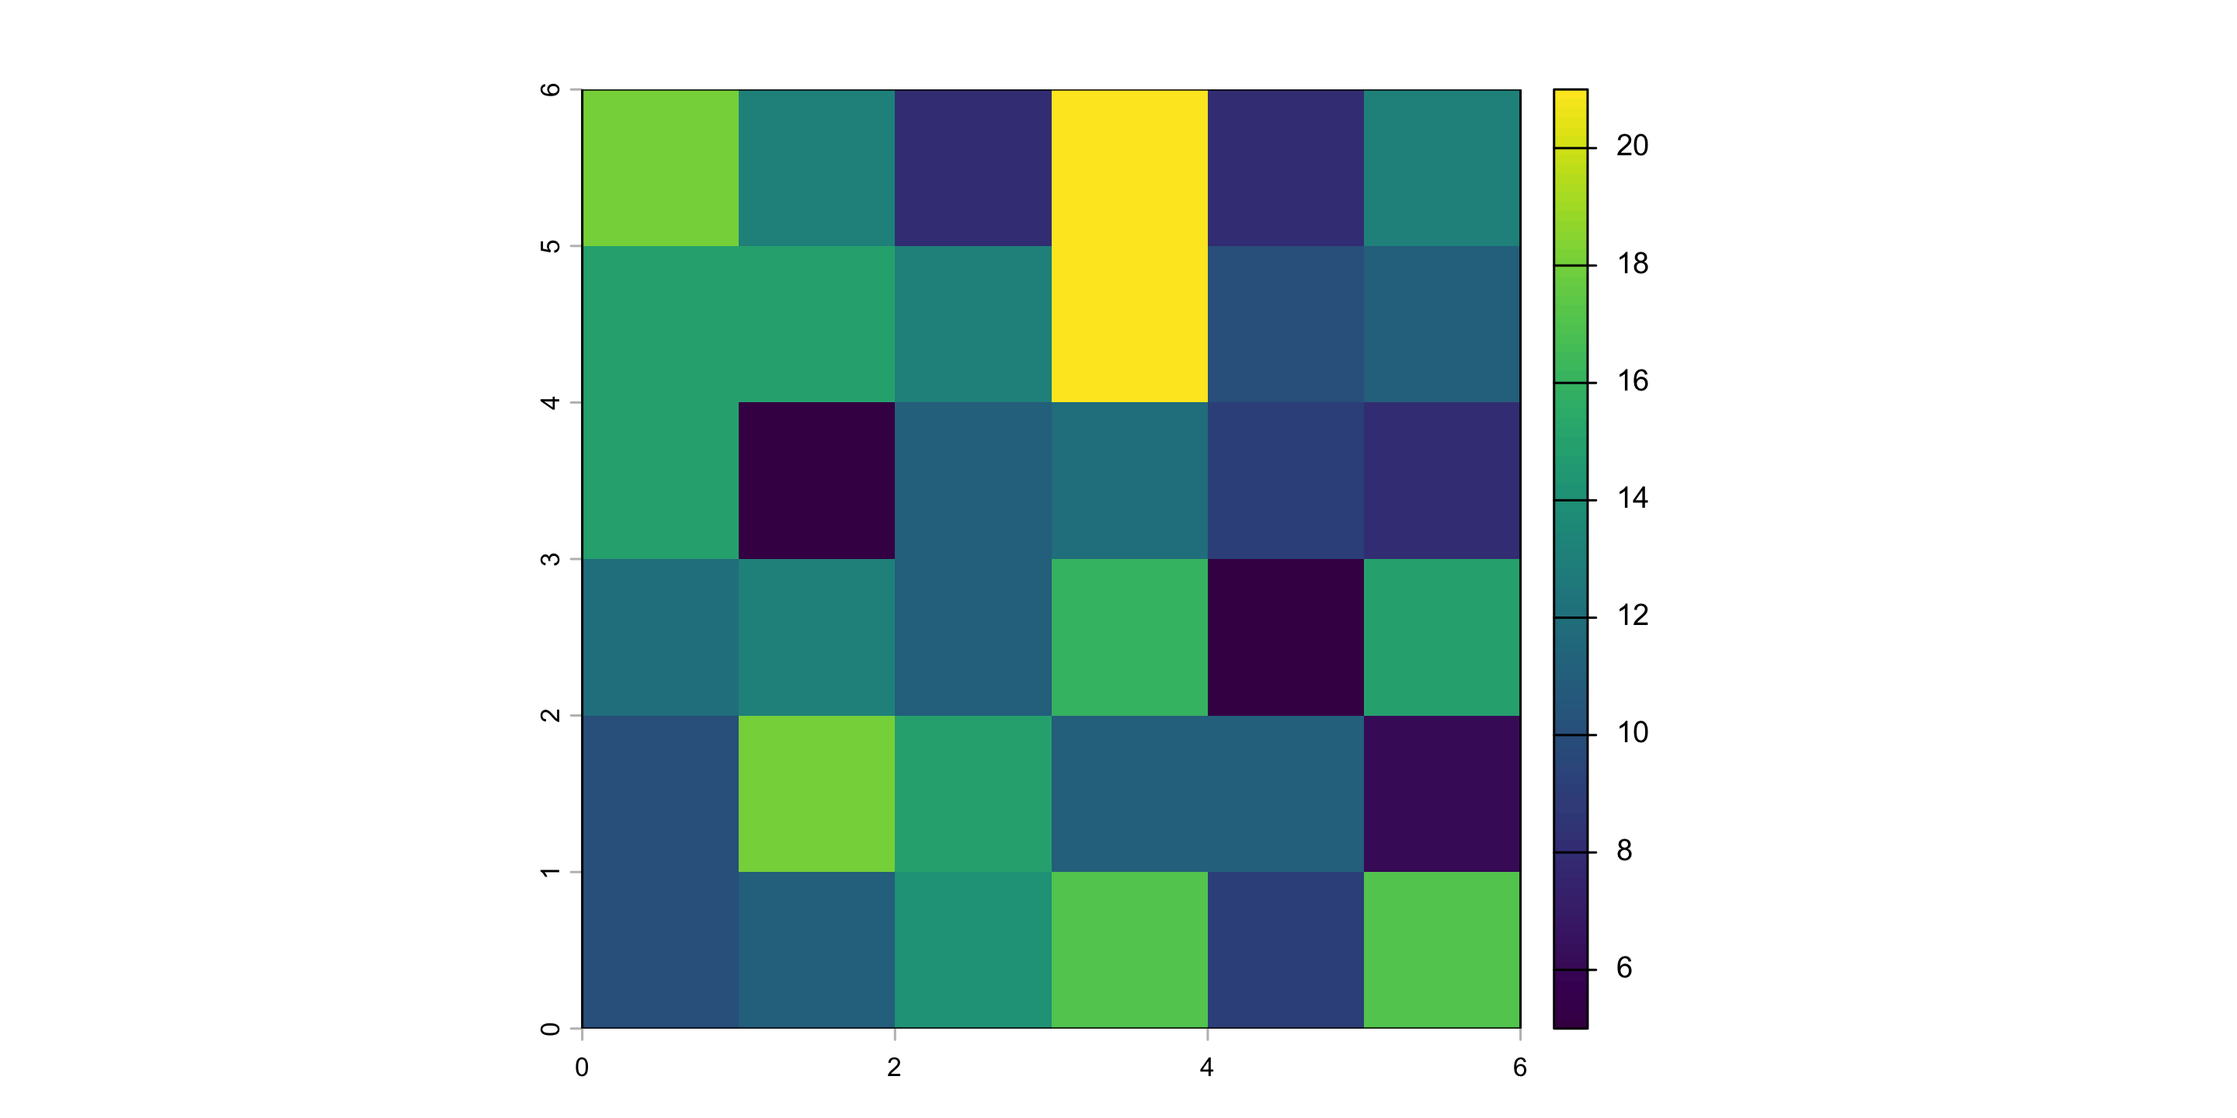
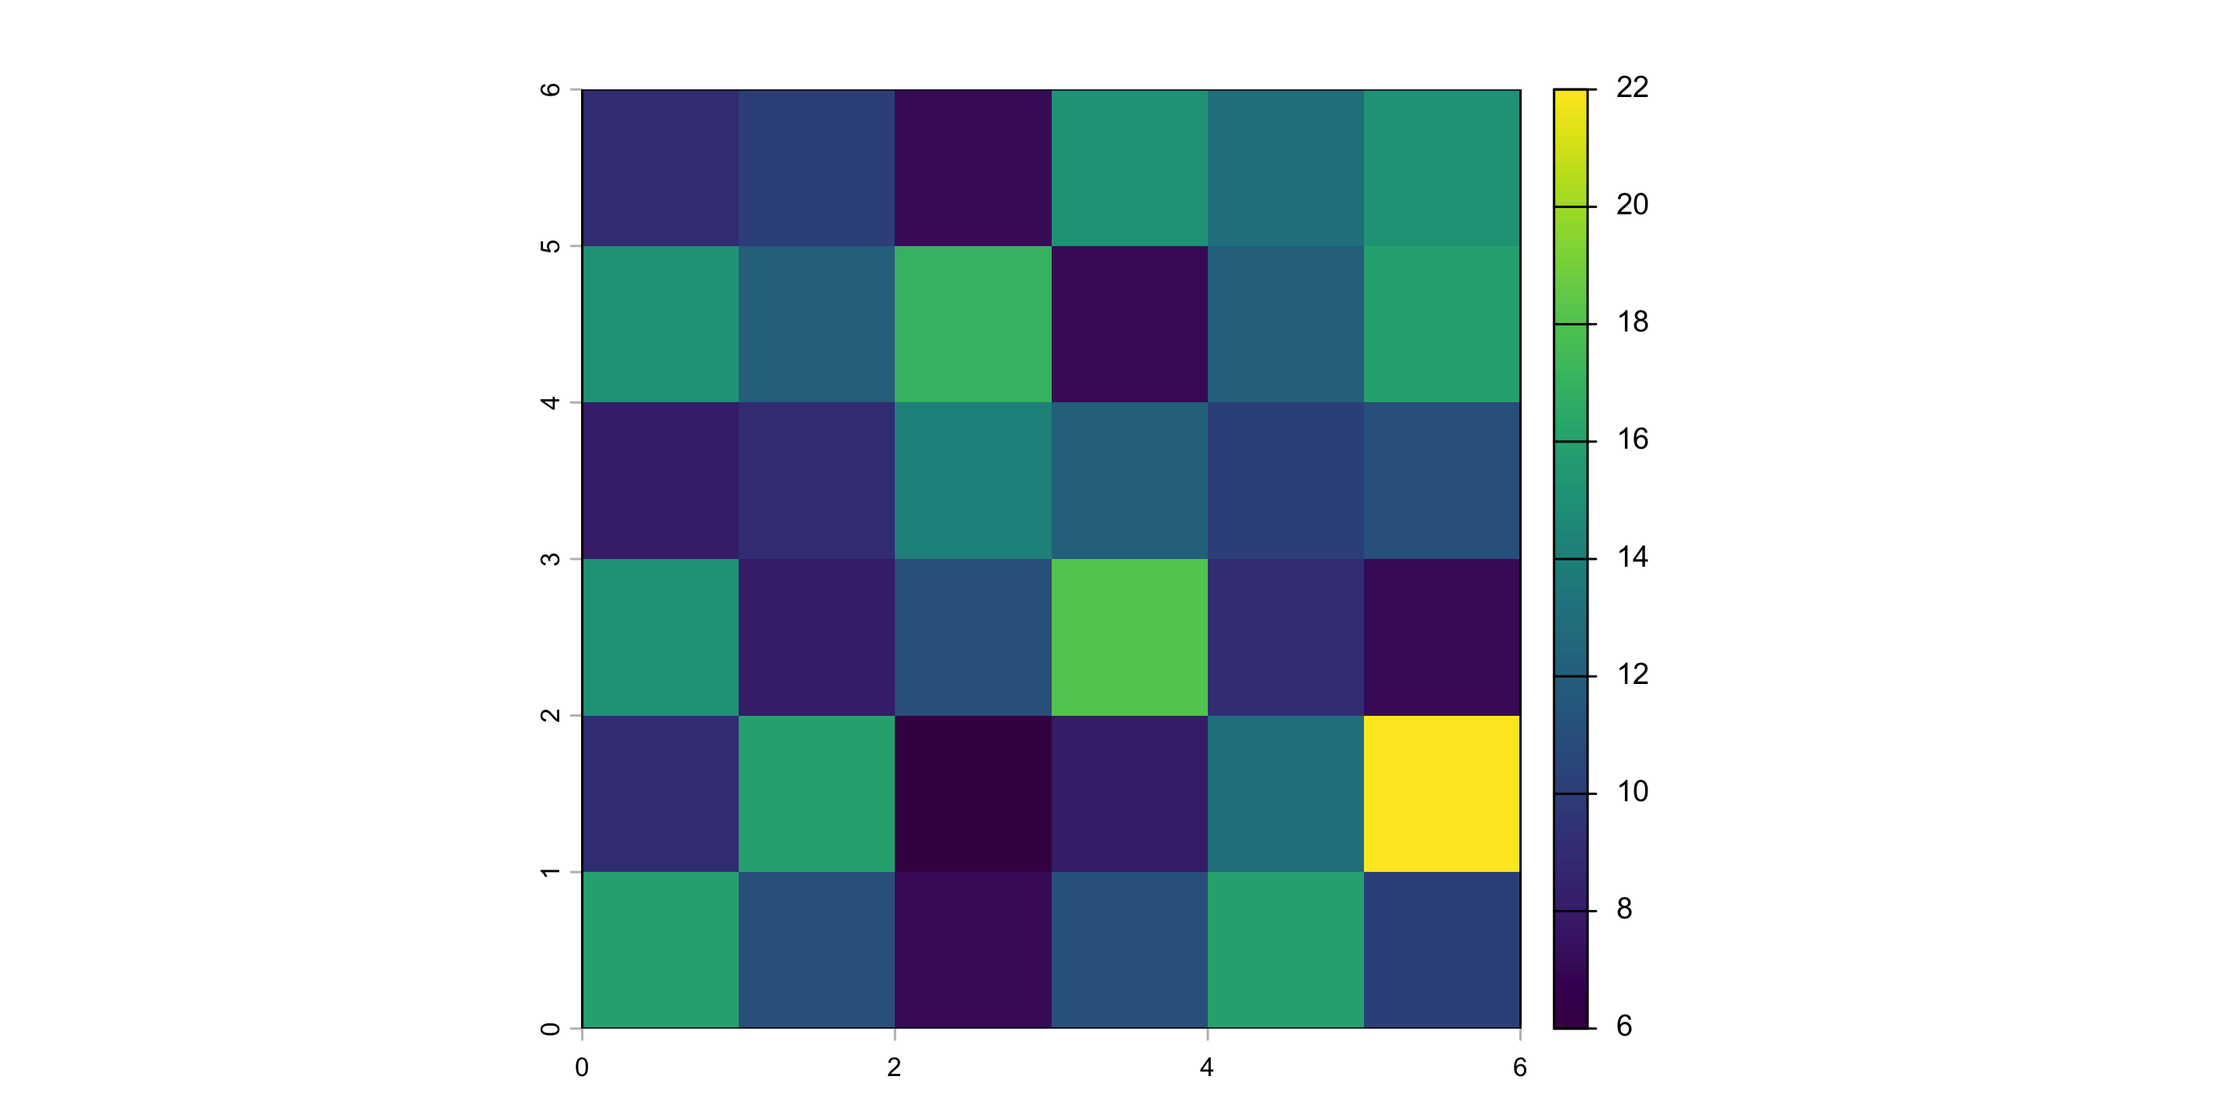
built for latest content

diff --git a/docs/narrative.html b/docs/narrative.html
@@ -144,8 +144,8 @@ window.Quarto = {
 </div>
 </div>
 <p>Rasters are representations of continuous, or semi-continuous, data. You can envision a raster just like an image. <mark>When me make a <code>leaflet()</code> map and how the tiles, each pixel is colored a particular value representing elevation, temperature, precipitation, habitat type, or whatever.</mark> This is exactly the same for rasters. The <em>key point</em> here is that each pixel represents some defined region on the earth and as such the raster itself is georeferenced. It has a coordinate reference system (CRS), boundaries, etc.</p>
-<section id="making-rasters-de-novo" class="level2">
-<h2 class="anchored" data-anchor-id="making-rasters-de-novo">Making Rasters <em>de novo</em></h2>
+<section id="making-rasters-de-novo" class="level2 application">
+<h2 class="application anchored" data-anchor-id="making-rasters-de-novo">Making Rasters <em>de novo</em></h2>
 <p>A raster is simply a matrix with rows and columns and each element has a value associated with it. You can create a raster <em>de novo</em> by making a matrix of data and filling it with values, then turning it into a raster.</p>
 <p>Here I make a raster with random numbers selected from the Poisson Distribution (fishy, I know) using the <code>rpois()</code> function. I then turn it into a matrix with 7 rows (and 7 columns).</p>
 <div class="cell">
@@ -154,20 +154,20 @@ window.Quarto = {
 <span id="cb3-3"><a href="#cb3-3" aria-hidden="true" tabindex="-1"></a>x</span></code></pre></div><button title="Copy to Clipboard" class="code-copy-button"><i class="bi"></i></button></div>
 <div class="cell-output cell-output-stdout">
 <pre><code>     [,1] [,2] [,3] [,4] [,5] [,6] [,7]
-[1,]   14   13   13   12    9   15   10
-[2,]   11    9   13   10    7   10   12
-[3,]   17   15   16   10   12   12   11
-[4,]   13   13   16   11    9   13   17
-[5,]   11   12   10    6   13   15   11
-[6,]    8   11   21   10    7   11   10
-[7,]   12   17   13   12   22   14    6</code></pre>
+[1,]   13   13   13   14   15    8   13
+[2,]   12   11   11   12   13   13   12
+[3,]   18   13   15   10   21    5   11
+[4,]   14   10    7   12   12   19   16
+[5,]    8    9   10   21   15   11   13
+[6,]   11   13   15   10   13   13   18
+[7,]   11    7    7    8   14   12   11</code></pre>
 </div>
 </div>
 <p>While we haven’t used matrices much thus far, it is a lot like a <code>data.frame</code> with respect to getting and setting values using numerical indices. For example, the value of the 3rd row and 5th column is:</p>
 <div class="cell">
 <div class="code-copy-outer-scaffold"><div class="sourceCode cell-code" id="cb5"><pre class="sourceCode r code-with-copy"><code class="sourceCode r"><span id="cb5-1"><a href="#cb5-1" aria-hidden="true" tabindex="-1"></a>x[<span class="dv">3</span>,<span class="dv">5</span>]</span></code></pre></div><button title="Copy to Clipboard" class="code-copy-button"><i class="bi"></i></button></div>
 <div class="cell-output cell-output-stdout">
-<pre><code>[1] 12</code></pre>
+<pre><code>[1] 21</code></pre>
 </div>
 </div>
 <p>To convert this set of data, as a matrix, into a geospatially referenced <code>SpatRaster</code> object we pass it to the <code>rast()</code> function:</p>
@@ -182,8 +182,8 @@ extent      : 0, 7, 0, 7  (xmin, xmax, ymin, ymax)
 coord. ref. : 
 source(s)   : memory
 name        : lyr.1
-min value   :     6
-max value   :    22</code></pre>
+min value   :     5
+max value   :    21</code></pre>
 </div>
 </div>
 <p>Notice that when I plot it out, it does not show the data, but a summary of the data along with some key data about the contents, including:<br>
@@ -191,8 +191,8 @@ max value   :    22</code></pre>
 - The extent (the bounding box) and again since we do not have a CRS defined it just goes from <span class="math inline">\(0\)</span> to <span class="math inline">\(1\)</span>. - The <code>coord. ref.</code> (missing) - The source, which is <code>memory</code> if the values are held in R or the name of the file the values are read from.</p>
 <p>If these data represent something on the planet, we can assign the dimensions and <code>CRS</code> values to it and use it in our normal day-to-day operations.</p>
 </section>
-<section id="loading-rasters-from-files-or-urls" class="level2">
-<h2 class="anchored" data-anchor-id="loading-rasters-from-files-or-urls">Loading Rasters from Files or URLs</h2>
+<section id="loading-rasters-from-files-or-urls" class="level2 application">
+<h2 class="application anchored" data-anchor-id="loading-rasters-from-files-or-urls">Loading Rasters from Files or URLs</h2>
 <p>We can also grab a raster object from the filesystem or from some online repository by passing the link to the <code>rast()</code> function. Here is the elevation, in meters, of the region in which Mexico is found. To load it in, pass the url.</p>
 <div class="cell">
 <div class="code-copy-outer-scaffold"><div class="sourceCode cell-code" id="cb9"><pre class="sourceCode r code-with-copy"><code class="sourceCode r"><span id="cb9-1"><a href="#cb9-1" aria-hidden="true" tabindex="-1"></a>url <span class="ot">&lt;-</span> <span class="st">"https://dyerlabteaching.github.io/CourseData/Spatial/alt_22.tif"</span></span>
@@ -230,8 +230,8 @@ max value   :   5469</code></pre>
 </div>
 </div>
 </section>
-<section id="cropping" class="level2">
-<h2 class="anchored" data-anchor-id="cropping">Cropping</h2>
+<section id="cropping" class="level2 application">
+<h2 class="application anchored" data-anchor-id="cropping">Cropping</h2>
 <p>One of the first things to do is to crop the data down to represent the size and extent of our study area. If we have over 10 million missing data points (the ocean) and most of Mexico in this raster above but we are only working with sites in Baja California (Norte y Sur), we would do well to excise (or crop) the raster to only include the area we are interested in working with.</p>
 <p>To do this, we need to figure out a bounding box (e.g., the minimum and maximum values of longitude and latitude that enclose our data). Let’s assume we are working with the Beetle Data from the <a href="https://dyerlabteaching.github.io/Spatial-Points/slides.html">Spatial Points Slides</a> and load in the Sex-biased dispersal data set and use those points as a starting estimate of the bounding box.</p>
 <div class="cell">
@@ -330,8 +330,8 @@ Warning
 </div>
 </div>
 </section>
-<section id="masking" class="level2">
-<h2 class="anchored" data-anchor-id="masking">Masking</h2>
+<section id="masking" class="level2 application">
+<h2 class="application anchored" data-anchor-id="masking">Masking</h2>
 <p>There is another way to grab just a portion of the raster—similar to cropping—which is to mask. A mask will not change the size of the raster but just put <code>NA</code> values in the cells that are not in the area of interest. So if we were to just mask above, it would never actually reduce the size of the raster, just add a lot more <code>NA</code> values. However, the setup is the same. The one difference is that <code>terra</code> functions want their vector data as a <code>terra</code> vector object (a <code>SpatVector</code>) rather than an <code>sf</code> object, so we convert the hull with <code>vect()</code><a href="#fn1" class="footnote-ref" id="fnref1" role="doc-noteref"><sup>1</sup></a>.</p>
 <div class="cell">
 <div class="code-copy-outer-scaffold"><div class="sourceCode cell-code" id="cb28"><pre class="sourceCode r code-with-copy"><code class="sourceCode r"><span id="cb28-1"><a href="#cb28-1" aria-hidden="true" tabindex="-1"></a>beetles <span class="sc">|&gt;</span></span>
@@ -367,8 +367,8 @@ max value   :   1875</code></pre>
 </div>
 </div>
 </section>
-<section id="plotting-with-ggplot" class="level2">
-<h2 class="anchored" data-anchor-id="plotting-with-ggplot">Plotting with GGPlot</h2>
+<section id="plotting-with-ggplot" class="level2 application">
+<h2 class="application anchored" data-anchor-id="plotting-with-ggplot">Plotting with GGPlot</h2>
 <p>As you may suspect, our old friend <code>ggplot</code> has some tricks up its sleeve for us. The main thing here is that <code>ggplot</code> requires a <code>data.frame</code> object and a raster is not a <code>data.frame</code> — Unless we turn it into one (hehehe). Remember from the <a href="https://dyerlabteaching.github.io/Data-Containers/narrative.html">lecture on <code>data.frame</code> objects</a> that we can coerce other data containers into a <code>data.frame</code> using the <code>as.data.frame()</code> function. The same works for a raster. If we pass <code>xy=TRUE</code> it takes each cell of the raster (and underlying matrix), makes a row from it, and includes the coordinates of the center of that cell as the <code>x</code> and <code>y</code> columns. By default, cells that are <code>NA</code> (the ocean) are dropped.</p>
 <div class="cell">
 <div class="code-copy-outer-scaffold"><div class="sourceCode cell-code" id="cb31"><pre class="sourceCode r code-with-copy"><code class="sourceCode r"><span id="cb31-1"><a href="#cb31-1" aria-hidden="true" tabindex="-1"></a>alt <span class="sc">|&gt;</span></span>
@@ -594,8 +594,8 @@ max value   :   1875</code></pre>
 </section>
 </section>
 </section>
-<section id="plotting-with-tidyterra" class="level2">
-<h2 class="anchored" data-anchor-id="plotting-with-tidyterra">Plotting with <code>tidyterra</code></h2>
+<section id="plotting-with-tidyterra" class="level2 application">
+<h2 class="application anchored" data-anchor-id="plotting-with-tidyterra">Plotting with <code>tidyterra</code></h2>
 <p>Converting the raster into a <code>data.frame</code> works, and it is worth knowing how to do because it shows exactly what <code>ggplot</code> needs. It is, however, a bit clunky. We had to make a second copy of the data (<code>alt.df</code>), rename the columns by hand, and remember to add <code>coord_equal()</code>. The <code>tidyterra</code> library is a bridge between <code>terra</code> and the <code>tidyverse</code> that takes care of all of this for us.</p>
 <div class="cell">
 <div class="code-copy-outer-scaffold"><div class="sourceCode cell-code" id="cb49"><pre class="sourceCode r code-with-copy"><code class="sourceCode r"><span id="cb49-1"><a href="#cb49-1" aria-hidden="true" tabindex="-1"></a><span class="fu">library</span>( tidyterra )</span></code></pre></div><button title="Copy to Clipboard" class="code-copy-button"><i class="bi"></i></button></div>
@@ -729,8 +729,8 @@ max values  :      2263, 7424.54092</code></pre>
 <p>We will put <code>filter()</code> to work in the <em>Applications</em> section below.</p>
 </section>
 </section>
-<section id="downloading-rasters-with-geodata" class="level2">
-<h2 class="anchored" data-anchor-id="downloading-rasters-with-geodata">Downloading Rasters with <code>geodata</code></h2>
+<section id="downloading-rasters-with-geodata" class="level2 application">
+<h2 class="application anchored" data-anchor-id="downloading-rasters-with-geodata">Downloading Rasters with <code>geodata</code></h2>
 <p>So far, the only raster we have used is the elevation file from the course data site. For real projects, you will usually need some other variable (climate, land cover, soils) for your own study area, and finding, downloading, and unpacking those files by hand from each data provider gets old fast. The <code>geodata</code> library takes care of this for many of the most commonly used <em>global</em> data sets, downloading them straight into <code>SpatRaster</code> (or, for boundaries, <code>SpatVector</code>) objects.</p>
 <div class="cell">
 <div class="code-copy-outer-scaffold"><div class="sourceCode cell-code" id="cb63"><pre class="sourceCode r code-with-copy"><code class="sourceCode r"><span id="cb63-1"><a href="#cb63-1" aria-hidden="true" tabindex="-1"></a><span class="fu">library</span>( geodata )</span></code></pre></div><button title="Copy to Clipboard" class="code-copy-button"><i class="bi"></i></button></div>
@@ -926,8 +926,8 @@ max values  : 28.754168,   20.975, 88.148148, 786.332458,  42.5,  22.4, ...</cod
 <p>Most of the peninsula gets less than 250mm of rain a year. The wettest parts are the Sierra de la Laguna at the southern tip and the mountains on the mainland side of the Gulf.</p>
 </section>
 </section>
-<section id="identifying-points" class="level2">
-<h2 class="anchored" data-anchor-id="identifying-points">Identifying Points</h2>
+<section id="identifying-points" class="level2 application">
+<h2 class="application anchored" data-anchor-id="identifying-points">Identifying Points</h2>
 <p>You can get some information from a raster plot interactively by using the <code>click</code> function. This <strong>must</strong> be done with an active raster plot. After that, you use the <code>click()</code> function to grab what you need. Your mouse will turn from an arrow into a cross hair and you can position it where you like and get information such as the coordinates (spatial) of the point and the value of the raster pixel at that location.</p>
 <p>The <code>n=</code> argument sets how many points to collect (it defaults to 10); you can stop early by pressing <code>ESC</code>. If you set <code>id=TRUE</code> it will plot the number of the point onto the map so you can see where you had clicked. Since this is interactive, you will not see the process when you execute the code below, but it will look like this:</p>
 <div class="cell">
@@ -974,8 +974,8 @@ max values  : 28.754168,   20.975, 88.148148, 786.332458,  42.5,  22.4, ...</cod
 </div>
 <p>Mexellent!</p>
 </section>
-<section id="reprojecting-rasters" class="level2">
-<h2 class="anchored" data-anchor-id="reprojecting-rasters">Reprojecting Rasters</h2>
+<section id="reprojecting-rasters" class="level2 theory application">
+<h2 class="theory application anchored" data-anchor-id="reprojecting-rasters">Reprojecting Rasters</h2>
 <p>Our raster is in longitude and latitude, whose units are degrees. Degrees are fine for saying <em>where</em> something is, but they are a poor ruler: a degree of longitude is about 111 km wide at the equator and shrinks to nothing at the poles. If we want to measure distances or areas (e.g., how much land lies within an elevation band), we want a projected coordinate system whose units are meters.</p>
 <p>Just like points, we can reproject the entire raster using the <code>project()</code> function. Here I am going to project the raster into UTM Zone 12N, a common projection for this part of <a href="https://epsg.io/6367">Mexico from epsg.io</a>.</p>
 <p>The <code>terra</code> library understands EPSG codes, so all we need is the code for that projection (6367) written as a character string.</p>
@@ -1046,8 +1046,8 @@ max values  : 28.754168,   20.975, 88.148148, 786.332458,  42.5,  22.4, ...</cod
 </div>
 <p>The beetles land exactly where they should. Notice also the slight tilt in the grid lines. <code>ggplot</code> labels the graticule in degrees, but lines of longitude are not parallel in UTM, which is exactly what we would expect.</p>
 </section>
-<section id="applications" class="level2">
-<h2 class="anchored" data-anchor-id="applications">Applications</h2>
+<section id="applications" class="level2 application">
+<h2 class="application anchored" data-anchor-id="applications">Applications</h2>
 <p>OK, so now we can make and show a raster but what about doing some operations? A raster is just a matrix <em>decorated</em> with more geospatial information. This allows us to do normal <code>R</code> like data manipulations on the underlying data. Let’s put that to work on two research questions from the Baja California data.</p>
 <section id="research-question-1-the-elevation-envelope-of-araptus-attenuatus" class="level3">
 <h3 class="anchored" data-anchor-id="research-question-1-the-elevation-envelope-of-araptus-attenuatus">Research Question 1: The Elevation Envelope of <em>Araptus attenuatus</em></h3>

diff --git a/docs/slides.html b/docs/slides.html
@@ -238,8 +238,8 @@ Rodney Dyer, PhD
 <div class="code-copy-outer-scaffold"><div class="sourceCode cell-code" id="cb1"><pre class="sourceCode numberSource r number-lines code-with-copy"><code class="sourceCode r"><span id="cb1-1"><a href=""></a>values <span class="ot">&lt;-</span> <span class="fu">rpois</span>(<span class="at">n =</span> <span class="dv">36</span>, <span class="at">lambda =</span> <span class="dv">12</span>)</span>
 <span id="cb1-2"><a href=""></a>values</span></code></pre></div><button title="Copy to Clipboard" class="code-copy-button"><i class="bi"></i></button></div>
 <div class="cell-output cell-output-stdout">
-<pre><code> [1] 18 15 15 12 10 10 13 15  5 13 18 11  8 13 11 11 15 14 21 21 12 16 11 17  8
-[26] 10  9  5 11  9 13 11  8 15  6 17</code></pre>
+<pre><code> [1]  9 15  8 15  9 16 10 12  9  8 16 11  7 17 14 11  6  7 15  7 12 18  8 11 13
+[26] 12 10  9 13 16 15 16 11  7 22 10</code></pre>
 </div>
 </div>
 <div class="fragment">
@@ -248,12 +248,12 @@ Rodney Dyer, PhD
 <span id="cb3-2"><a href=""></a>x</span></code></pre></div><button title="Copy to Clipboard" class="code-copy-button"><i class="bi"></i></button></div>
 <div class="cell-output cell-output-stdout">
 <pre><code>     [,1] [,2] [,3] [,4] [,5] [,6]
-[1,]   18   13    8   21    8   13
-[2,]   15   15   13   21   10   11
-[3,]   15    5   11   12    9    8
-[4,]   12   13   11   16    5   15
-[5,]   10   18   15   11   11    6
-[6,]   10   11   14   17    9   17</code></pre>
+[1,]    9   10    7   15   13   15
+[2,]   15   12   17    7   12   16
+[3,]    8    9   14   12   10   11
+[4,]   15    8   11   18    9    7
+[5,]    9   16    6    8   13   22
+[6,]   16   11    7   11   16   10</code></pre>
 </div>
 </div>
 </div>
@@ -285,8 +285,8 @@ extent      : 0, 6, 0, 6  (xmin, xmax, ymin, ymax)
 coord. ref. : 
 source(s)   : memory
 name        : lyr.1
-min value   :     5
-max value   :    21</code></pre>
+min value   :     6
+max value   :    22</code></pre>
 </div>
 </div>
 </section>
@@ -316,10 +316,10 @@ max value   :    21</code></pre>
 <div class="code-copy-outer-scaffold"><div class="sourceCode cell-code" id="cb8"><pre class="sourceCode numberSource r number-lines code-with-copy"><code class="sourceCode r"><span id="cb8-1"><a href=""></a><span class="fu">c</span>(x[<span class="dv">1</span>, <span class="dv">2</span>], r[<span class="dv">1</span>, <span class="dv">2</span>])</span></code></pre></div><button title="Copy to Clipboard" class="code-copy-button"><i class="bi"></i></button></div>
 <div class="cell-output cell-output-stdout">
 <pre><code>[[1]]
-[1] 13
+[1] 10
 
 $lyr.1
-[1] 13</code></pre>
+[1] 10</code></pre>
 </div>
 </div>
 </section>

diff --git a/docs/homework.html b/docs/homework.html
@@ -7,7 +7,7 @@
 <meta name="viewport" content="width=device-width, initial-scale=1.0, user-scalable=yes">
 
 <meta name="author" content="YOUR NAME HERE">
-<meta name="dcterms.date" content="2026-10-27">
+<meta name="dcterms.date" content="2026-11-10">
 
 <title>Raster Data Homework</title>
 <style>
@@ -2227,7 +2227,7 @@ vertical-align: -.125em;
     <div>
     <div class="quarto-title-meta-heading">Published</div>
     <div class="quarto-title-meta-contents">
-      <p class="date">October 27, 2026</p>
+      <p class="date">November 10, 2026</p>
     </div>
   </div>
   
